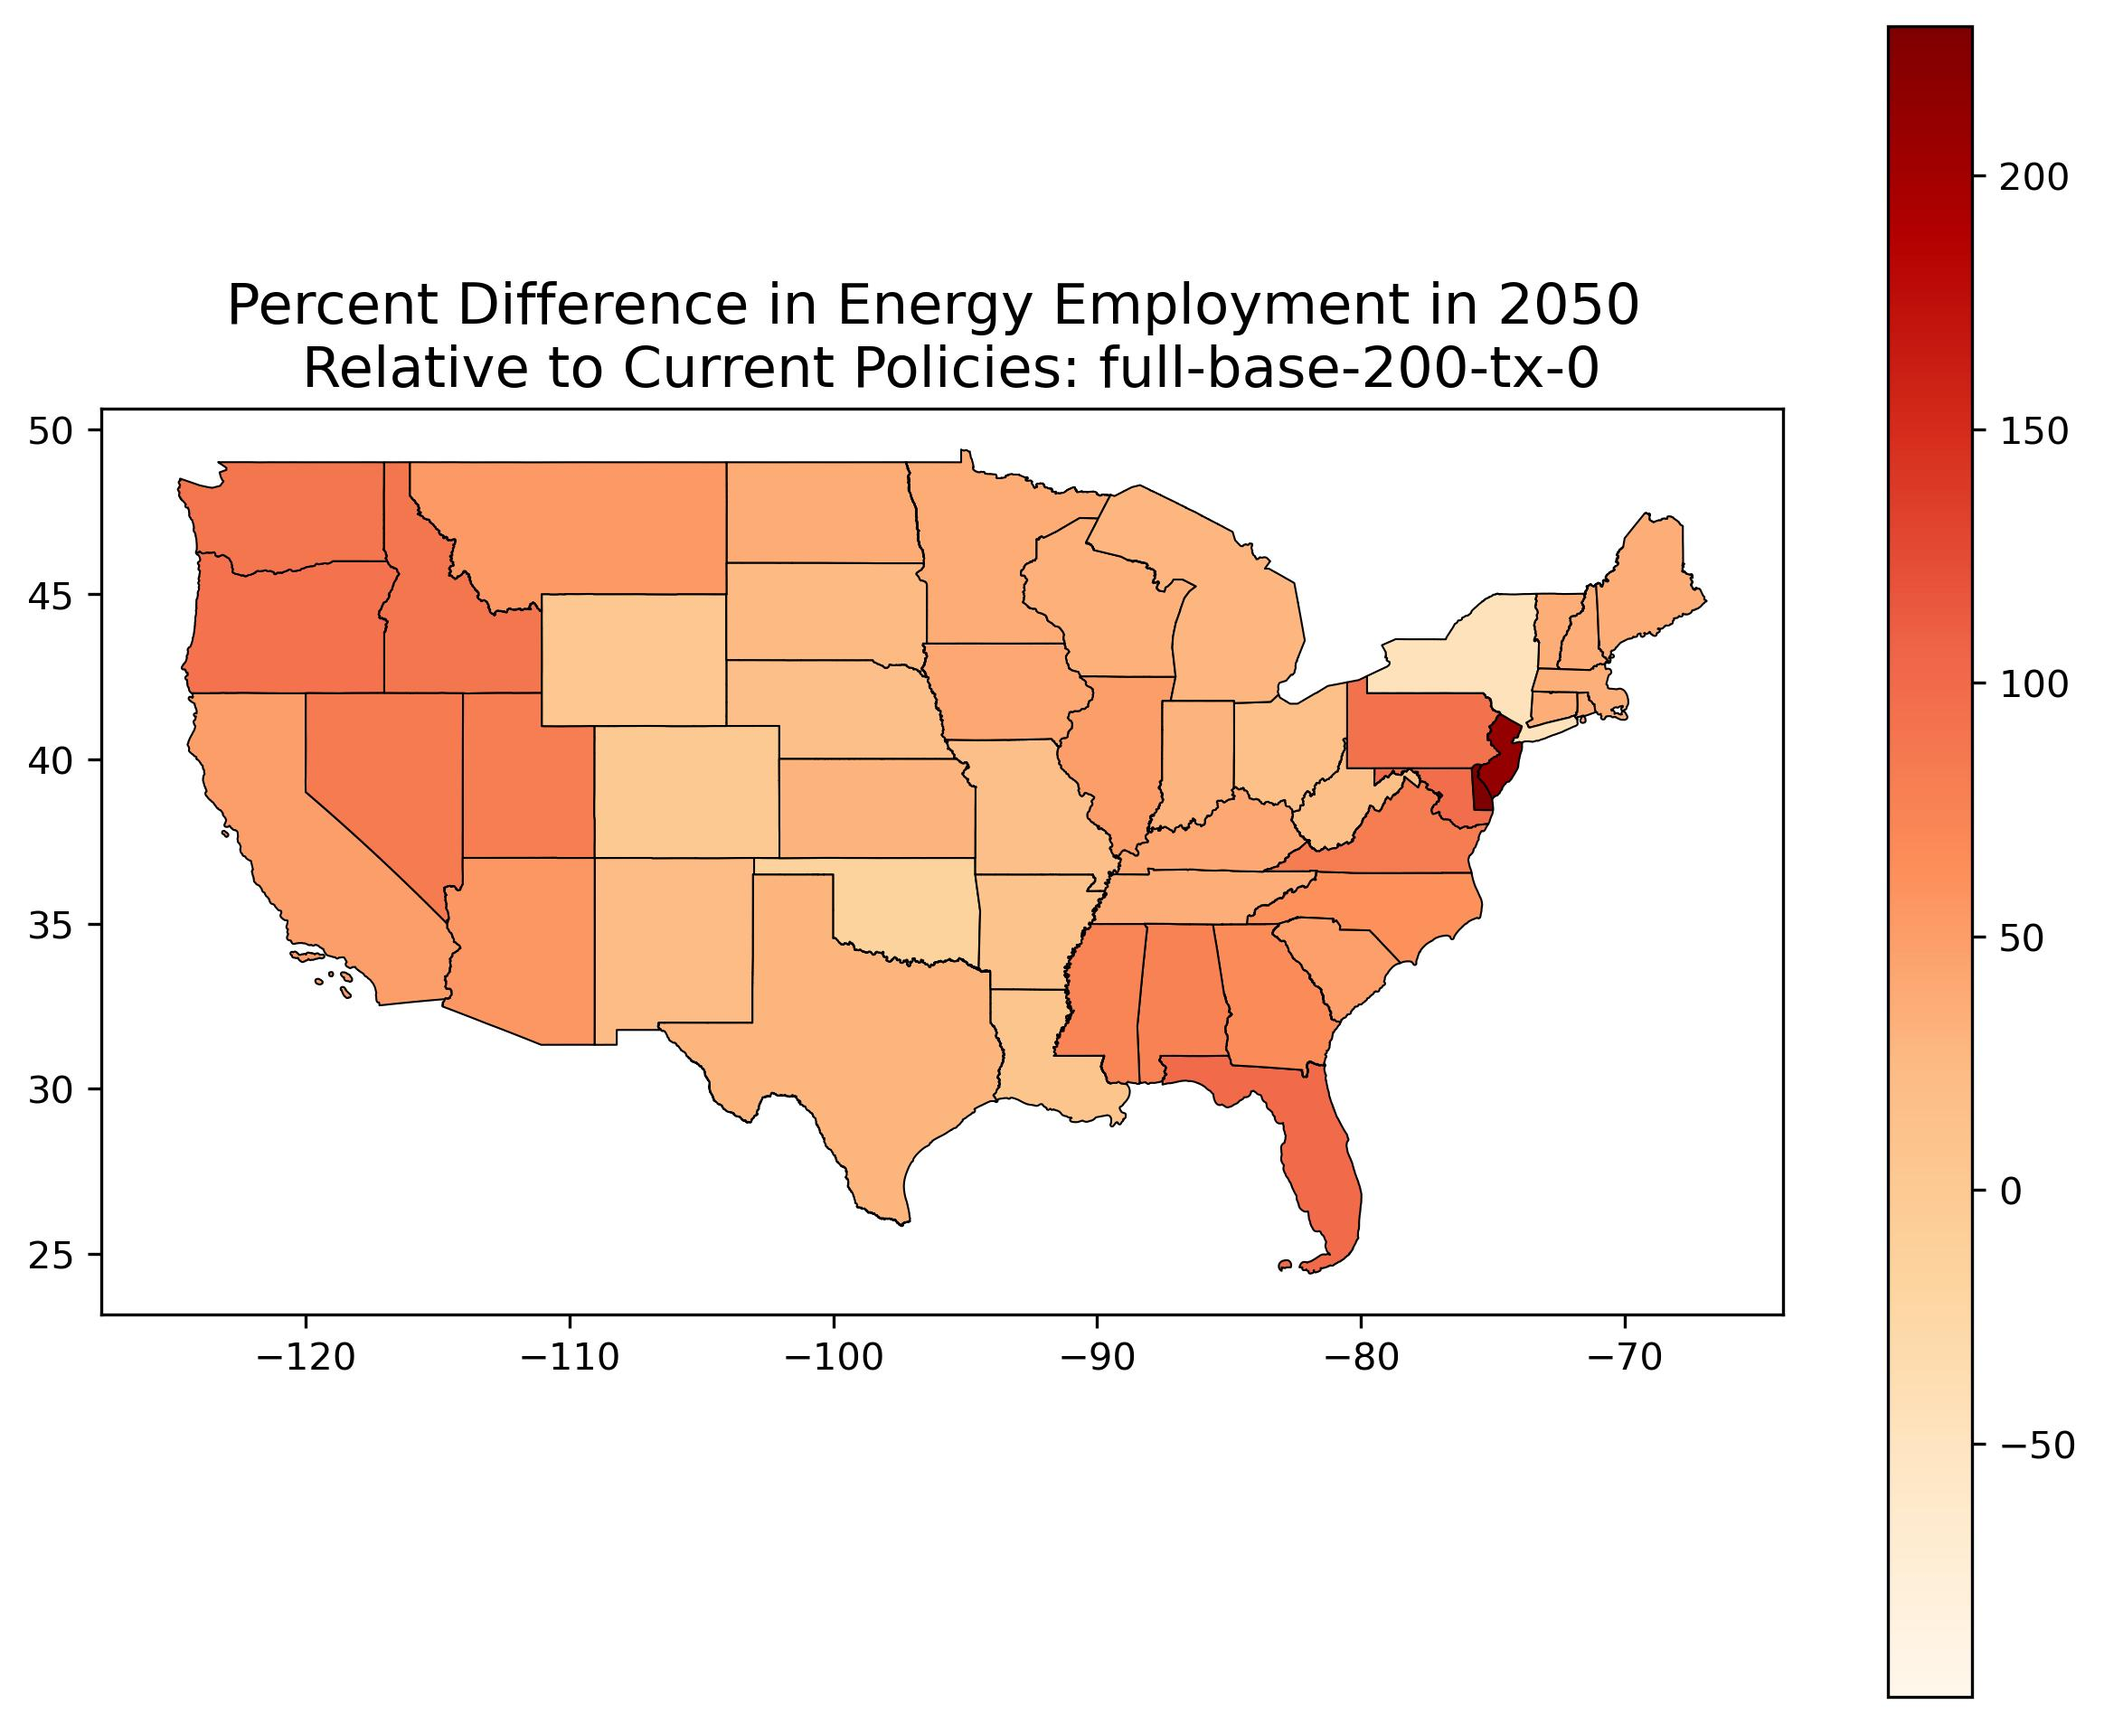
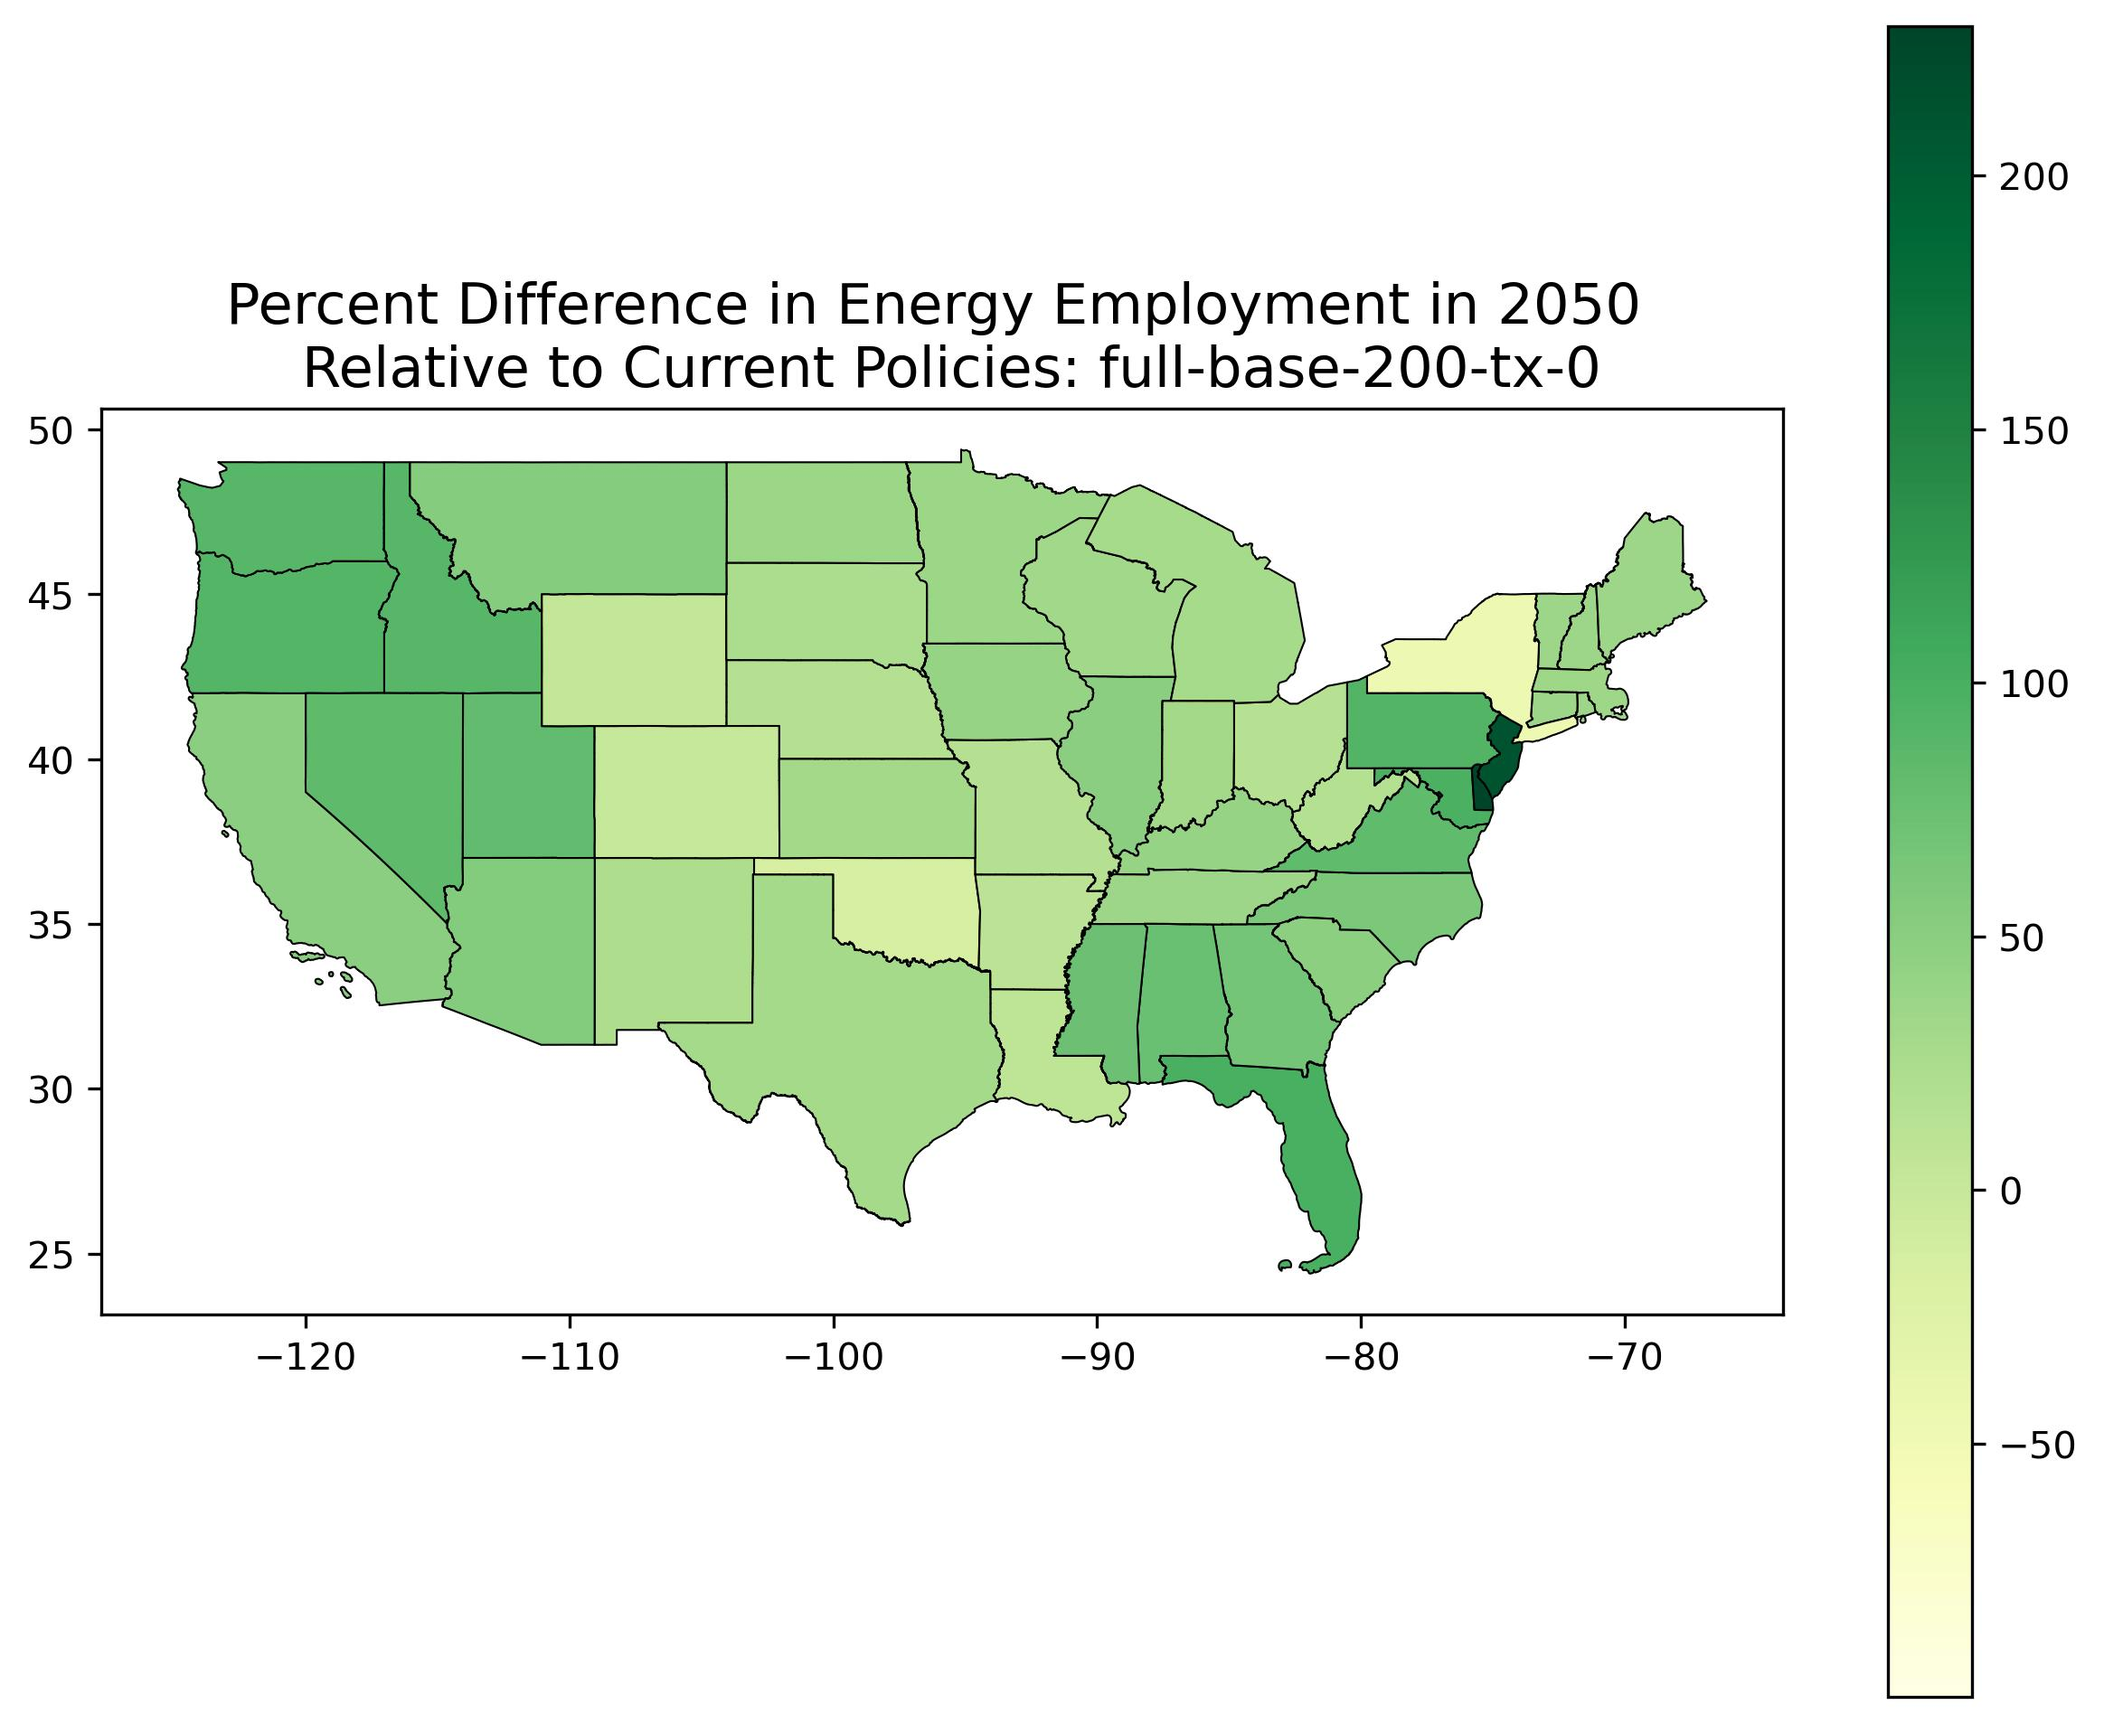
make plots green

Changed region(s): [[0.0619, 0.2475, 0.8045, 0.7425], [0.8973, 0.0, 0.9592, 0.8353]]

diff --git a/Downscaled/Jobs/Plot_Output.py b/Downscaled/Jobs/Plot_Output.py
@@ -41,7 +41,7 @@ for scenario in scenario_dictionary:
     merged_data.plot(column='pct_change', 
                      ax=ax, 
                      legend=True, 
-                     cmap='OrRd',
+                     cmap='YlGn',
                      edgecolor='black',
                      linewidth=0.5,
                      vmin=min_dif,
@@ -96,7 +96,7 @@ for scenario in scenario_dictionary:
     merged_data.plot(column='pct_dif', 
                      ax=ax, 
                      legend=True, 
-                     cmap='OrRd',
+                     cmap='YlGn',
                      edgecolor='black',
                      linewidth=0.5,
                      vmin=min_pct,
@@ -112,7 +112,7 @@ for scenario in scenario_dictionary:
     merged_data.plot(column='jobs_dif', 
                      ax=ax, 
                      legend=True, 
-                     cmap='OrRd',
+                     cmap='YlGn',
                      edgecolor='black',
                      linewidth=0.5,
                      vmin=min_abs,
